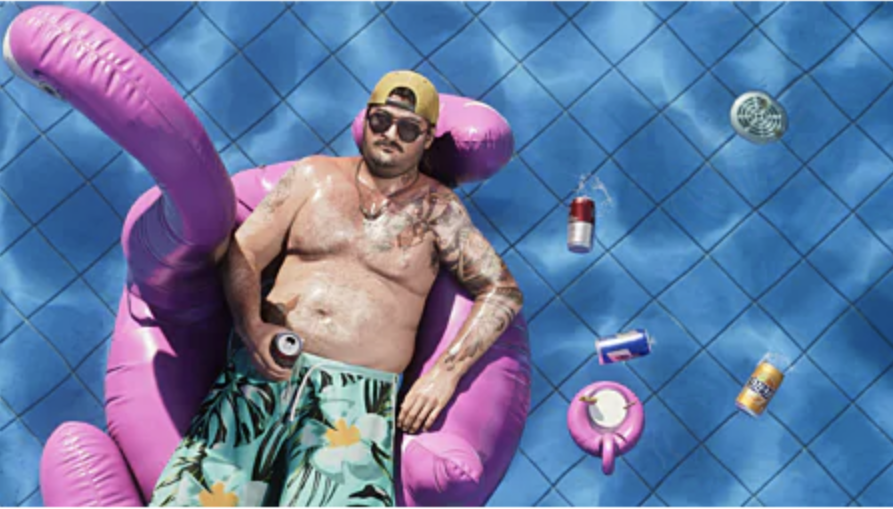
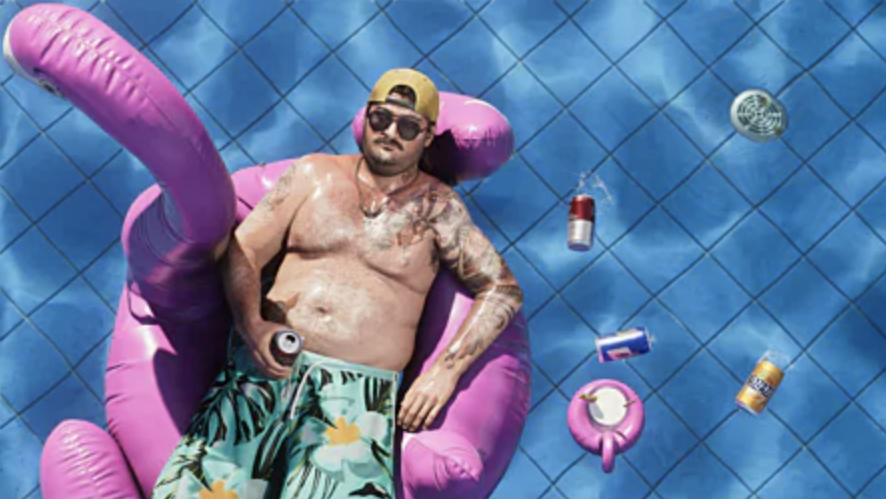
Mise a jour landing page GTA VI

diff --git a/index.html b/index.html
@@ -1,1 +1,1 @@
-<!doctype html><html lang="fr"><head><meta charset="UTF-8"><meta name="viewport" content="width=device-width,initial-scale=1"><link rel="icon" type="image/png" href="assets/favicon.png"><title>GTA VI — Précommande édition numérique</title><style>:root{font-family:Arial,Helvetica,sans-serif;color:#fff;background:#0b0812}*{box-sizing:border-box}body{margin:0}header{padding:18px 6%;display:flex;justify-content:space-between;align-items:center;border-bottom:1px solid #ffffff24;background:#100b1b}header strong{font-size:22px;letter-spacing:2px}header span{font-size:12px;color:#c9b9d9}.hero{min-height:670px;display:grid;grid-template-columns:1.05fr .95fr;align-items:center;background:linear-gradient(90deg,#0b0812 0%,#0b0812ee 47%,#0b081255 100%),url('assets/visual-6.png') center/cover;padding:55px 6%;gap:40px}.eyebrow{display:inline-block;padding:10px 15px;background:#f43c94;color:#16061a;font-size:12px;font-weight:900;letter-spacing:2px}h1{font-size:clamp(56px,8vw,120px);line-height:.88;margin:26px 0;letter-spacing:-5px}h1 em{font-style:normal;color:#ff62ae}p{line-height:1.65;color:#ddd0e5}.price{font-size:65px;font-weight:900;margin:20px 0 0}.price small{font-size:18px;color:#d3bdd5}.cta{display:inline-block;border:0;background:#ff4da1;color:#190718;padding:19px 27px;font-size:16px;font-weight:900;text-decoration:none;cursor:pointer;box-shadow:7px 7px 0 #742bd6}.hero img{width:100%;max-height:540px;object-fit:contain;filter:drop-shadow(0 22px 45px #0009)}.container{max-width:1200px;margin:auto;padding:80px 24px}h2{font-size:clamp(32px,5vw,54px);margin:0 0 16px;text-transform:uppercase;letter-spacing:-2px}.gallery{display:grid;grid-template-columns:repeat(3,1fr);gap:12px}.gallery img{width:100%;height:230px;object-fit:cover}.section-dark{background:#150d22}.checkout{display:grid;grid-template-columns:1fr 1fr;gap:55px;align-items:start}.panel{border:1px solid #6d3e83;background:#1b102b;padding:35px;box-shadow:12px 12px 0 #311448}label{display:block;font-weight:bold;margin:20px 0 8px}input{width:100%;padding:17px;background:#0d0915;border:1px solid #765a87;color:white;border-radius:0;font-size:16px}input:focus{outline:2px solid #ff4da1}.full{width:100%;margin-top:28px}.fine{font-size:12px;color:#b6a8bd}.steps{display:grid;grid-template-columns:repeat(3,1fr);gap:20px;margin-top:30px}.step{border-top:3px solid #ff4da1;padding-top:18px}footer{padding:35px 6%;border-top:1px solid #ffffff22;font-size:12px;color:#b7a8c1}a{color:#ff85c1}.warning{border-left:3px solid #ff4da1;padding-left:15px}#error{color:#ff9aab;font-size:14px}@media(max-width:800px){.hero,.checkout{grid-template-columns:1fr}.hero{min-height:auto}.hero img{max-height:350px}.gallery{grid-template-columns:1fr 1fr}.gallery img{height:150px}.steps{grid-template-columns:1fr}h1{letter-spacing:-3px}.price{font-size:48px}}</style></head><body><header><strong>VI <span>PREORDER</span></strong><span>ÉDITION NUMÉRIQUE • PS5</span></header><section class="hero"><div><span class="eyebrow">OFFRE LIMITÉE AUX 1 000 PREMIÈRES COMMANDES*</span><h1>VICE CITY<br><em>VOUS ATTEND.</em></h1><p>Réservez votre exemplaire numérique de Grand Theft Auto VI. Une nouvelle aventure. Une ville sans limites.</p><div class="price">50,00 € <small>prix de l'offre*</small></div><p>Code de téléchargement envoyé par e-mail le jour de la sortie, sous réserve de disponibilité.</p><a class="cta" href="#precommande">JE PRÉCOMMANDE →</a></div><img src="assets/visual-3.png" alt="Visuel de la boîte Grand Theft Auto VI PS5"></section><section class="container"><h2>Bienvenue à Leonida.</h2><p>Un univers spectaculaire à découvrir.</p><div class="gallery"><img src="assets/visual-1.png" alt="Visuel GTA VI"><img src="assets/visual-2.png" alt="Visuel GTA VI"><img src="assets/visual-4.png" alt="Visuel GTA VI"><img src="assets/visual-5.png" alt="Visuel GTA VI"><img src="assets/visual-6.png" alt="Visuel GTA VI"><img src="assets/visual-3.png" alt="Visuel GTA VI PS5"></div></section><section class="section-dark" id="precommande"><div class="container checkout"><div><span class="eyebrow">PRÉCOMMANDE NUMÉRIQUE</span><h2>Réservez votre place.</h2><p>Renseignez votre pseudo et votre adresse e-mail avant de passer au paiement sécurisé Stripe.</p><div class="steps"><div class="step"><b>01 — Réservez</b><p>Complétez vos informations.</p></div><div class="step"><b>02 — Payez</b><p>Paiement sur la page sécurisée Stripe.</p></div><div class="step"><b>03 — Jouez</b><p>Recevez votre code de téléchargement par e-mail le jour de la sortie.</p></div></div><p class="warning">* L'offre à 50,00 € pour les 1 000 premières commandes.</p></div><div class="panel"><h2 style="font-size:30px">Votre précommande</h2><p>Grand Theft Auto VI — Édition numérique PS5</p><div class="price" style="font-size:48px">50,00 €</div><p>Complétez ces deux champs pour continuer vers le paiement sécurisé.</p><form id="order-form"><label for="pseudo">Votre pseudo</label><input id="pseudo" name="pseudo" type="text" minlength="2" maxlength="40" autocomplete="nickname" placeholder="Ex. ViceCityPlayer" required><label for="email">Votre adresse e-mail</label><input id="email" name="email" type="email" maxlength="254" autocomplete="email" placeholder="vous@exemple.com" required><button class="cta full" type="submit">CONTINUER VERS STRIPE — 50,00 € →</button><p id="error" role="alert" aria-live="polite"></p></form><p class="fine">Votre e-mail est transmis au système de distribution automatique du code qui sera deverouiller le jour de la sortie officielle.</p><p class="fine">Le paiement est traité par Stripe. La disponibilité est de 1 000 exemplaires. </p></div></div></section><footer>Site de distribution du jeu GTA 6, non affilié à Rockstar Games ou Take-Two Interactive.</footer><script>document.getElementById('order-form').addEventListener('submit',function(e){e.preventDefault();const form=e.currentTarget;if(!form.reportValidity())return;const pseudo=document.getElementById('pseudo').value.trim();const email=document.getElementById('email').value.trim();if(pseudo.length<2){document.getElementById('error').textContent='Veuillez saisir un pseudo de 2 caractères minimum.';return;}try{sessionStorage.setItem('gta6_precommande_pseudo',pseudo)}catch(err){}const url=new URL('https://buy.stripe.com/aFabJ17vf5S83HU0S49k400');url.searchParams.set('prefilled_email',email);window.location.assign(url.toString());});</script></body></html>
+<!doctype html><html lang="fr"><head><meta charset="UTF-8"><meta name="viewport" content="width=device-width,initial-scale=1"><link rel="icon" type="image/png" href="assets/favicon.png"><title>GTA VI — Précommande édition numérique</title><style>:root{font-family:Arial,Helvetica,sans-serif;color:#fff;background:#0b0812}*{box-sizing:border-box}body{margin:0}header{padding:18px 6%;display:flex;justify-content:space-between;align-items:center;border-bottom:1px solid #ffffff24;background:#100b1b}header strong{font-size:22px;letter-spacing:2px}header span{font-size:12px;color:#c9b9d9}.hero{min-height:670px;display:grid;grid-template-columns:1.05fr .95fr;align-items:center;background:linear-gradient(90deg,#0b0812 0%,#0b0812ee 47%,#0b081255 100%),url('assets/visual-6.png') center/cover;padding:55px 6%;gap:40px}.eyebrow{display:inline-block;padding:10px 15px;background:#f43c94;color:#16061a;font-size:12px;font-weight:900;letter-spacing:2px}h1{font-size:clamp(56px,8vw,120px);line-height:.88;margin:26px 0;letter-spacing:-5px}h1 em{font-style:normal;color:#ff62ae}p{line-height:1.65;color:#ddd0e5}.price{font-size:65px;font-weight:900;margin:20px 0 0}.price small{font-size:18px;color:#d3bdd5}.cta{display:inline-block;border:0;background:#ff4da1;color:#190718;padding:19px 27px;font-size:16px;font-weight:900;text-decoration:none;cursor:pointer;box-shadow:7px 7px 0 #742bd6}.hero img{width:100%;max-height:540px;object-fit:contain;filter:drop-shadow(0 22px 45px #0009)}.container{max-width:1200px;margin:auto;padding:80px 24px}h2{font-size:clamp(32px,5vw,54px);margin:0 0 16px;text-transform:uppercase;letter-spacing:-2px}.gallery{display:grid;grid-template-columns:repeat(3,1fr);gap:12px}.gallery img{width:100%;height:230px;object-fit:cover}.section-dark{background:#150d22}.checkout{display:grid;grid-template-columns:1fr 1fr;gap:55px;align-items:start}.panel{border:1px solid #6d3e83;background:#1b102b;padding:35px;box-shadow:12px 12px 0 #311448}label{display:block;font-weight:bold;margin:20px 0 8px}input{width:100%;padding:17px;background:#0d0915;border:1px solid #765a87;color:white;border-radius:0;font-size:16px}input:focus{outline:2px solid #ff4da1}.full{width:100%;margin-top:28px}.fine{font-size:12px;color:#b6a8bd}.steps{display:grid;grid-template-columns:repeat(3,1fr);gap:20px;margin-top:30px}.step{border-top:3px solid #ff4da1;padding-top:18px}footer{padding:35px 6%;border-top:1px solid #ffffff22;font-size:12px;color:#b7a8c1}a{color:#ff85c1}.warning{border-left:3px solid #ff4da1;padding-left:15px}#error{color:#ff9aab;font-size:14px}@media(max-width:800px){.hero,.checkout{grid-template-columns:1fr}.hero{min-height:auto}.hero img{max-height:350px}.gallery{grid-template-columns:1fr 1fr}.gallery img{height:150px}.steps{grid-template-columns:1fr}h1{letter-spacing:-3px}.price{font-size:48px}}</style></head><body><header><strong>VI <span>PREORDER</span></strong><span>ÉDITION NUMÉRIQUE • PS5</span></header><section class="hero"><div><span class="eyebrow">OFFRE LIMITÉE AUX 1 000 PREMIÈRES COMMANDES*</span><h1>VICE CITY<br><em>VOUS ATTEND.</em></h1><p>Réservez votre exemplaire numérique de Grand Theft Auto VI. Une nouvelle aventure. Une ville sans limites.</p><div class="price">50,00 € <small>prix de l'offre*</small></div><p>Code de téléchargement envoyé par e-mail le jour de la sortie.</p><a class="cta" href="#precommande">JE PRÉCOMMANDE →</a></div><img src="assets/visual-3.png" alt="Visuel de la boîte Grand Theft Auto VI PS5"></section><section class="container"><h2>Bienvenue à Leonida.</h2><p>Un univers spectaculaire à découvrir.</p><div class="gallery"><img src="assets/visual-1.png" alt="Visuel GTA VI"><img src="assets/visual-2.png" alt="Visuel GTA VI"><img src="assets/visual-4.png" alt="Visuel GTA VI"><img src="assets/visual-5.png" alt="Visuel GTA VI"><img src="assets/visual-6.png" alt="Visuel GTA VI"><img src="assets/visual-3.png" alt="Visuel GTA VI PS5"></div></section><section class="section-dark" id="precommande"><div class="container checkout"><div><span class="eyebrow">PRÉCOMMANDE NUMÉRIQUE</span><h2>Réservez votre place.</h2><p>Renseignez votre pseudo et votre adresse e-mail avant de passer au paiement sécurisé Stripe.</p><div class="steps"><div class="step"><b>01 — Réservez</b><p>Complétez vos informations.</p></div><div class="step"><b>02 — Payez</b><p>Paiement sur la page sécurisée Stripe.</p></div><div class="step"><b>03 — Jouez</b><p>Recevez votre code de téléchargement par e-mail le jour de la sortie.</p></div></div><p class="warning">* L'offre à 50,00 € pour les 1 000 premières commandes.</p></div><div class="panel"><h2 style="font-size:30px">Votre précommande</h2><p>Grand Theft Auto VI — Édition numérique PS5</p><div class="price" style="font-size:48px">50,00 €</div><p>Complétez ces deux champs pour continuer vers le paiement sécurisé.</p><form id="order-form"><label for="pseudo">Votre pseudo</label><input id="pseudo" name="pseudo" type="text" minlength="2" maxlength="40" autocomplete="nickname" placeholder="Ex. ViceCityPlayer" required><label for="email">Votre adresse e-mail</label><input id="email" name="email" type="email" maxlength="254" autocomplete="email" placeholder="vous@exemple.com" required><button class="cta full" type="submit">CONTINUER VERS STRIPE — 50,00 € →</button><p id="error" role="alert" aria-live="polite"></p></form><p class="fine">Votre e-mail est transmis au système de distribution automatique du code qui sera deverouiller le jour de la sortie officielle.</p><p class="fine">Le paiement est traité par Stripe. La disponibilité est de 1 000 exemplaires. </p></div></div></section><footer>Site de distribution du jeu GTA 6, non affilié à Rockstar Games ou Take-Two Interactive.</footer><script>document.getElementById('order-form').addEventListener('submit',function(e){e.preventDefault();const form=e.currentTarget;if(!form.reportValidity())return;const pseudo=document.getElementById('pseudo').value.trim();const email=document.getElementById('email').value.trim();if(pseudo.length<2){document.getElementById('error').textContent='Veuillez saisir un pseudo de 2 caractères minimum.';return;}try{sessionStorage.setItem('gta6_precommande_pseudo',pseudo)}catch(err){}const url=new URL('https://buy.stripe.com/aFabJ17vf5S83HU0S49k400');url.searchParams.set('prefilled_email',email);window.location.assign(url.toString());});</script></body></html>
